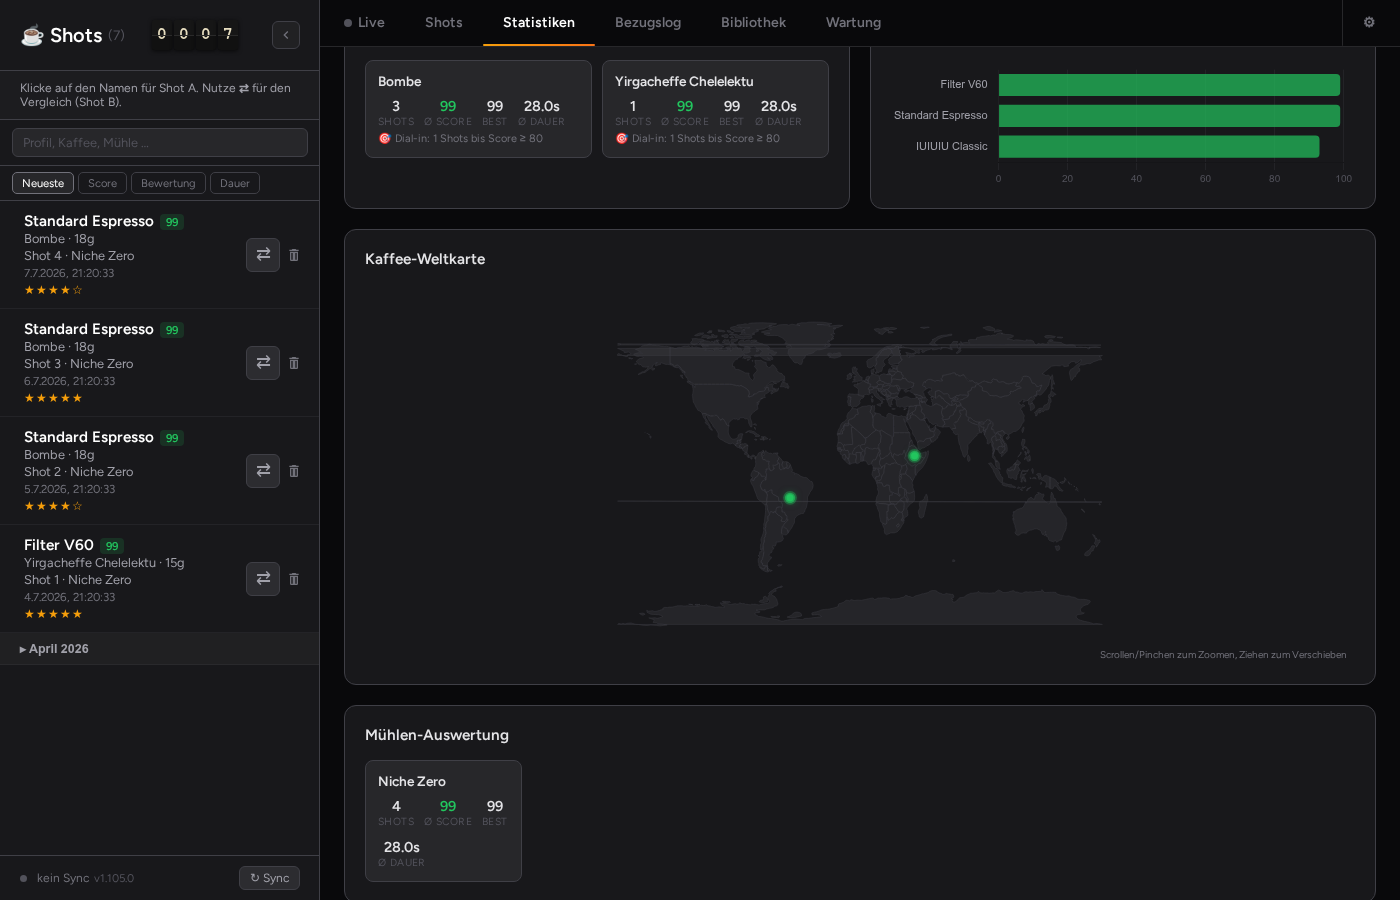
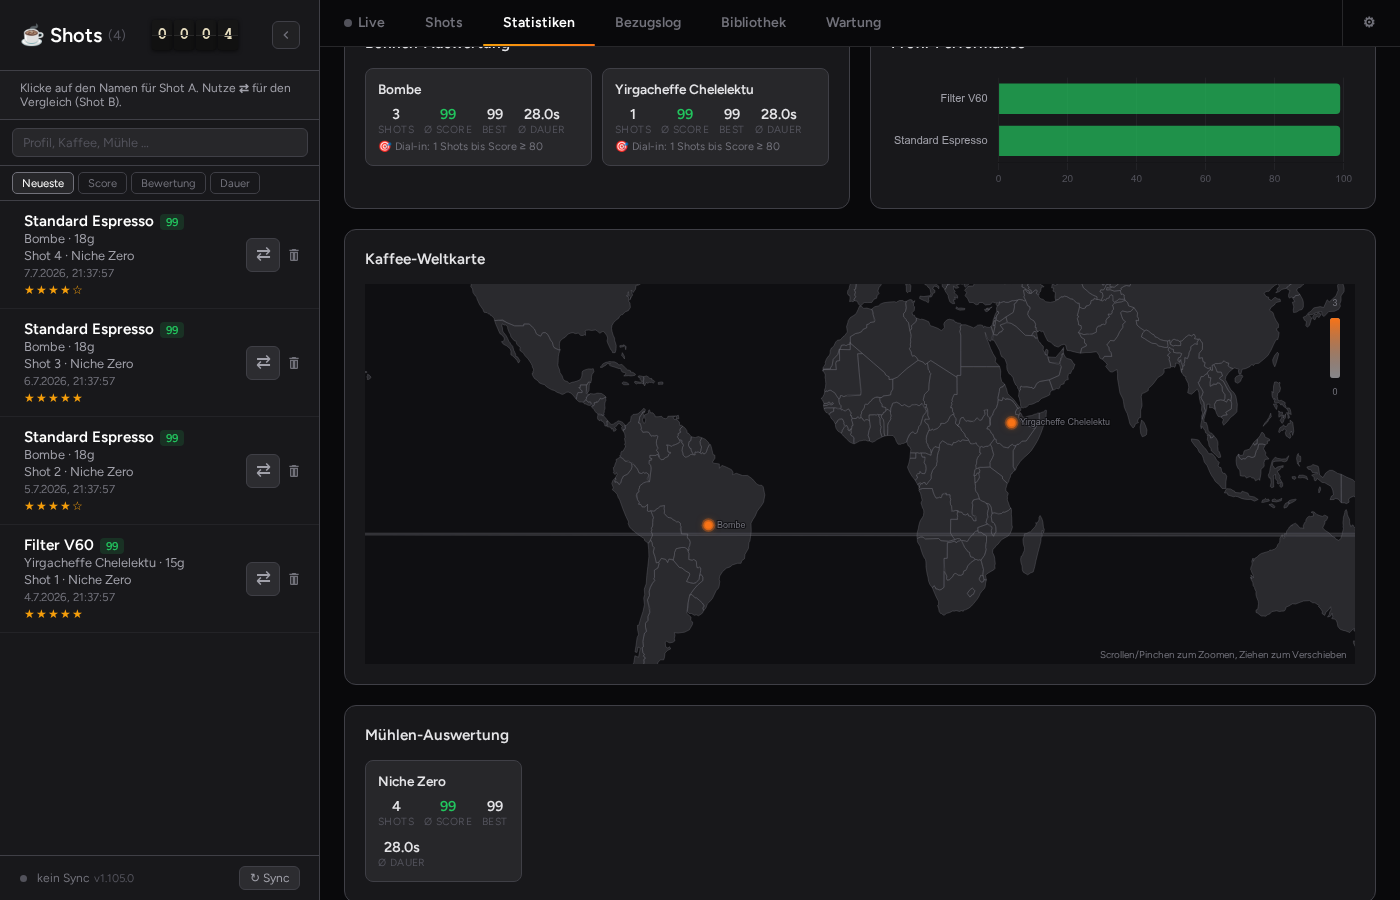
feat: redesign Coffee World Map visual style
Replaces the generic green scatter/choropleth color with the app's
amber/orange accent (read live via getComputedStyle so it follows the
active theme/accent), shows the visualMap shot-count legend that was
previously hidden, auto-frames the initial camera on a bounding box of
the countries/points that actually have data (computeMapBoundingView(),
capped so a single country doesn't zoom in absurdly far) instead of
always showing the whole globe, adds always-visible labels on scatter
points with at least one shot, and darkens the map background so land
reads more clearly against ocean.

public-src/views/analytics.js: buildWorldMap() + new pure
computeMapBoundingView() helper + _hexToRgba() util.

Closes #278

diff --git a/gaggiuino-local-profiler/public-src/views/analytics.js b/gaggiuino-local-profiler/public-src/views/analytics.js
@@ -501,6 +501,46 @@ function _echartsAvailable() {
   return typeof echarts !== 'undefined' && typeof topojson !== 'undefined';
 }
 
+// Converts a #rrggbb (or #rgb) hex color to an rgba() string at the given
+// alpha; falls back to the raw input unchanged if it isn't hex (e.g. an
+// already-rgba CSS custom property value).
+function _hexToRgba(hex, alpha) {
+  const m = /^#?([a-f\d]{3}|[a-f\d]{6})$/i.exec(String(hex || '').trim());
+  if (!m) return hex;
+  let h = m[1];
+  if (h.length === 3) h = h.split('').map(c => c + c).join('');
+  const num = parseInt(h, 16);
+  const r = (num >> 16) & 255, g = (num >> 8) & 255, b = num & 255;
+  return `rgba(${r},${g},${b},${alpha})`;
+}
+
+// Pure helper (unit-testable): given a list of [lon, lat] coordinates with
+// data on the map, returns a { center, zoom } that frames them instead of
+// defaulting to the whole globe. `zoom` is clamped to a sane range so a
+// single country (or a single point) doesn't zoom in absurdly far, and
+// stays within the geo.scaleLimit used by buildWorldMap (max 12).
+export function computeMapBoundingView(coords) {
+  const valid = (coords || []).filter(c => Array.isArray(c) && Number.isFinite(c[0]) && Number.isFinite(c[1]));
+  if (!valid.length) return { center: undefined, zoom: 1 };
+  let minLon = Infinity, maxLon = -Infinity, minLat = Infinity, maxLat = -Infinity;
+  for (const [lon, lat] of valid) {
+    if (lon < minLon) minLon = lon;
+    if (lon > maxLon) maxLon = lon;
+    if (lat < minLat) minLat = lat;
+    if (lat > maxLat) maxLat = lat;
+  }
+  const center = [(minLon + maxLon) / 2, (minLat + maxLat) / 2];
+  const lonSpan = maxLon - minLon;
+  const latSpan = maxLat - minLat;
+  // Latitude degrees read visually "taller" than longitude degrees on an
+  // equirectangular-ish projection, so weight them more when picking the
+  // limiting axis; floor the span so a single point still gets some padding.
+  const span = Math.max(lonSpan, latSpan * 1.8, 8);
+  const padded = span * 1.6;
+  const zoom = Math.min(6, Math.max(1, 360 / padded));
+  return { center, zoom };
+}
+
 export async function buildWorldMap() {
   const wrap = document.getElementById('worldMapWrap');
   if (!wrap) return;
@@ -610,14 +650,32 @@ export async function buildWorldMap() {
     const shots = byCode[primaryCode]?.beans.has(bean.name)
       ? S.shots.filter(s => String(s.annotation?.coffee || '').toLowerCase() === bean.name.toLowerCase()).length
       : 0;
-    points.push({ name: bean.name, value: [...coord, shots], _region: bean.region || null });
+    // Always-visible label for beans that actually have shots logged (kept
+    // off for zero-shot points so the map doesn't get cluttered with beans
+    // that are only sitting in the Library with an origin set).
+    const label = shots > 0
+      ? { show: true, formatter: '{b}', position: 'right', distance: 5, fontSize: 9, fontWeight: 500 }
+      : undefined;
+    points.push({ name: bean.name, value: [...coord, shots], _region: bean.region || null, label });
   }
+
+  // Brand colors, read live from the CSS custom properties so the map
+  // follows whichever accent/theme the user has picked (not just amber).
+  const cs = getComputedStyle(document.documentElement);
+  const accentTo = (cs.getPropertyValue('--accent-to') || '#f97316').trim() || '#f97316';
+  const mutedText = (cs.getPropertyValue('--gray-500') || '#71717a').trim() || '#71717a';
 
   const container = wrap.querySelector('.world-map-canvas');
   if (!_echartsInstance) _echartsInstance = echarts.init(container);
 
+  const boundingCoords = [
+    ...Object.keys(byCode).map(code => COUNTRY_CENTROIDS[code]).filter(Boolean),
+    ...points.map(p => [p.value[0], p.value[1]]),
+  ];
+  const { center, zoom } = computeMapBoundingView(boundingCoords);
+
   _echartsInstance.setOption({
-    backgroundColor: 'transparent',
+    backgroundColor: 'rgba(9,9,11,.55)',
     tooltip: {
       formatter: (params) => {
         if (params.seriesType === 'map') {
@@ -638,28 +696,32 @@ export async function buildWorldMap() {
       },
     },
     geo: {
-      map: 'world', roam: true, scaleLimit: { min: 1, max: 12 },
-      itemStyle: { areaColor: 'rgba(63,63,70,.35)', borderColor: 'rgba(63,63,70,.8)', borderWidth: 0.5 },
-      emphasis: { itemStyle: { areaColor: 'rgba(63,63,70,.55)' }, label: { show: false } },
+      map: 'world', roam: true, scaleLimit: { min: 1, max: 12 }, center, zoom,
+      itemStyle: { areaColor: 'rgba(82,82,91,.4)', borderColor: 'rgba(113,113,122,.7)', borderWidth: 0.5 },
+      emphasis: { itemStyle: { areaColor: 'rgba(82,82,91,.6)' }, label: { show: false } },
     },
     series: [
       {
         type: 'map', map: 'world', geoIndex: 0,
         data: mapData,
-        itemStyle: { borderColor: 'rgba(63,63,70,.8)', borderWidth: 0.5 },
+        itemStyle: { borderColor: 'rgba(113,113,122,.7)', borderWidth: 0.5 },
         emphasis: { label: { show: false } },
       },
       {
         type: 'effectScatter', coordinateSystem: 'geo',
         data: points,
         symbolSize: 7,
-        itemStyle: { color: '#22c55e', shadowBlur: 8, shadowColor: 'rgba(34,197,94,.6)' },
+        itemStyle: { color: accentTo, shadowBlur: 8, shadowColor: _hexToRgba(accentTo, .6) },
+        label: { show: false, color: mutedText, textBorderColor: 'rgba(9,9,11,.7)', textBorderWidth: 2 },
         rippleEffect: { scale: 2.5 },
       },
     ],
     visualMap: {
-      show: false, seriesIndex: 0, min: 0, max: maxShots,
-      inRange: { color: ['rgba(63,63,70,.35)', 'rgba(34,197,94,.85)'] },
+      show: true, seriesIndex: 0, min: 0, max: maxShots,
+      right: 10, top: 10, itemWidth: 10, itemHeight: 60,
+      text: [String(maxShots), '0'],
+      textStyle: { color: mutedText, fontSize: 9 },
+      inRange: { color: ['rgba(82,82,91,.4)', accentTo] },
     },
   }, true);
 

diff --git a/gaggiuino-local-profiler/CHANGELOG.md b/gaggiuino-local-profiler/CHANGELOG.md
@@ -1,3 +1,8 @@
+## Unreleased
+
+### Changed
+- **Coffee World Map visual redesign.** The Analytics world map used a generic green instead of the app's amber/orange accent, always framed the entire globe even when bean data was clustered in a couple of regions, hid the shot-count color legend, and only showed bean info on hover. Now reads `--accent-from`/`--accent-to` live via `getComputedStyle` for scatter points and the choropleth gradient (so it follows whichever theme/accent color is active), shows the `visualMap` legend styled for the dark UI, auto-frames the initial camera on a bounding box computed from the countries/points that actually have data (`computeMapBoundingView()`, capped so a single country doesn't zoom in absurdly far; `roam: true` still lets you pan/zoom manually afterward), always-visible labels on scatter points that have at least one shot logged, and a darker map background so land reads more clearly against ocean. `public-src/views/analytics.js`. Closes #278
+
 ## [1.105.0] – 2026-07-07
 
 ### Added

diff --git a/gaggiuino-local-profiler/DOCS.de.md b/gaggiuino-local-profiler/DOCS.de.md
@@ -130,7 +130,7 @@ curl http://<gaggiuino-ip>/api/shots/latest
 |---|---|
 | **Live** | Echtzeit-Charts für Druck, Flow, Gewicht und Temperatur während eines Shots. Beim Start eines Bezugs wird automatisch der letzte Shot mit demselben Profil als gestrichelte Referenzkurve eingeblendet. Kann über das Dropdown überschrieben oder entfernt werden. Der Tab ist nur sichtbar wenn die Maschine eingeschaltet ist (erfordert `switch_entity`). |
 | **Shots** | Shot-Verlauf mit vollständigem Chart, Score, Annotation (**Kaffee-Dropdown** aus der Bibliothek, Mühle, Dosis, Notizen, **Getränktyp**, **Bohnenalter beim Shot**) und Vollbild-Chart. Bei Sortierung nach "Neueste" werden Shots älter als der aktuelle Monat in der Sidebar zu monatsweisen, aufklappbaren Abschnitten zusammengefasst — der aktuelle Monat bleibt immer eine flache Liste. Das Kaffeefeld ist ein Dropdown, das aus der Bohnenbibliothek befüllt wird — eigene Einträge die nicht in der Bibliothek sind bleiben erhalten. Annotationsfelder werden **automatisch gespeichert** 1 Sekunde nach der letzten Eingabe. Wenn eine bekannte Bohne ausgewählt wird, wird das Alter der Bohne zum Zeitpunkt des Shots automatisch aus dem Röstdatum der aktiven Packung berechnet und in der Annotation gespeichert. Getränkoptionen kommen aus demselben Menü wie das Bestellsystem. Ein **Teilen**-Button in der Toolbar öffnet eine Formatauswahl und exportiert den Shot als PNG-Karte — zwei Formate: **Quadrat (1:1)** 1080×1080 für Feed-Posts, **Story (9:16)** 1080×1920 für Instagram Stories. Nutzt die native Web Share API auf Mobilgeräten, fällt auf Desktop auf Download zurück. Karten-Layout: schwarz/weißes Theme, GLP-Logo im Header mit Shot-ID und Datum, Profilname, Bohne, Dosis → Yield · Ratio · Dauer, Phasen-Chips (Preinfusion / Extraktion in Blau/Orange) über dem vollständigen Datenchart mit Legende, zweispaltiger Stats-Bereich (DRUCK, PUMPENFLUSS, TEMPERATUR links; GEWICHT, GEWICHTSFLUSS, DAUER, DOSIS → YIELD · RATIO rechts), Score-Badge. |
-| **Analytics** | Aggregierte Statistiken über alle Shots: **Übersicht-KPIs** (Shots gesamt, Ø Score, Kaffee gesamt, Shots diese Woche, längste tägliche Streak), **Persönliche Bestleistungen** (bester Shot mit direktem Link, längste Streak, Lieblingsbohne/-profil, aktivster Tag), **Score-Trend**-Chart (30 / 90 / alle), **Shot-Kalender**-Heatmap, **Bohnen-Auswertung**, **Profil-Performance**-Balkendiagramm, **Mühlen-Auswertung**, **Kaffee-Weltkarte** (interaktiv: Scrollen/Pinchen zum Zoomen, Ziehen zum Verschieben — Choropleth der Bohnen-Herkunftsländer nach Shot-Anzahl eingefärbt, bei Blends anteilig auf alle Herkunftsländer aufgeteilt, plus ein pulsierender Punkt pro Bohne an der geocodeten Anbau-Region oder ersatzweise am Länder-Mittelpunkt, Tooltips mit Flagge + lokalisiertem Ländernamen), **Dosis & Ratio-Verteilung** als Histogramme, **Tageszeit**-Balkendiagramm nach Ø Score eingefärbt. |
+| **Analytics** | Aggregierte Statistiken über alle Shots: **Übersicht-KPIs** (Shots gesamt, Ø Score, Kaffee gesamt, Shots diese Woche, längste tägliche Streak), **Persönliche Bestleistungen** (bester Shot mit direktem Link, längste Streak, Lieblingsbohne/-profil, aktivster Tag), **Score-Trend**-Chart (30 / 90 / alle), **Shot-Kalender**-Heatmap, **Bohnen-Auswertung**, **Profil-Performance**-Balkendiagramm, **Mühlen-Auswertung**, **Kaffee-Weltkarte** (interaktiv: Scrollen/Pinchen zum Zoomen, Ziehen zum Verschieben — Choropleth der Bohnen-Herkunftsländer nach Shot-Anzahl im Akzentfarbverlauf der App eingefärbt, mit Farbskalen-Legende, Ansicht startet automatisch auf die Länder/Bohnen mit tatsächlichen Daten fokussiert statt auf die ganze Welt, bei Blends anteilig auf alle Herkunftsländer aufgeteilt, plus ein pulsierender Punkt pro Bohne an der geocodeten Anbau-Region oder ersatzweise am Länder-Mittelpunkt mit dauerhaft sichtbarem Label sobald mindestens ein Shot erfasst ist, Tooltips mit Flagge + lokalisiertem Ländernamen), **Dosis & Ratio-Verteilung** als Histogramme, **Tageszeit**-Balkendiagramm nach Ø Score eingefärbt. |
 | **Bibliothek** | Kaffeebohnen- und Mühlenkatalog plus **Rezepte**-Tab. Bohnenkarten zeigen eine **Sterne-Bewertung** (Mittelwert aus den Shot-Bewertungen dieser Bohne, rein berechnet — kein manuelles Feld) und ein **Röstfrische-Badge** (Tage seit Röstung, eingefärbt nach Degassing-/Peak-/Fading-Fenster, aus dem Röstdatum der aktiven Packung — ausgeblendet sobald der Restbestand einer bestandsgeführten Bohne null erreicht). Bohnen unterstützen: **Herkunftsländer** (eines oder mehrere, aus einer Liste von Kaffeeanbauländern ausgewählt und als Chips mit Flagge und lokalisiertem Namen angezeigt — eine Bohne mit mehr als einem Herkunftsland ist ein Blend, mit optionalem prozentualem Gewichtungsanteil pro Land für die anteilige Aufteilung auf der Kaffee-Weltkarte in Statistiken), **Varietät** (Arabica, Robusta, Geisha, … mit Vorschlägen), **Aufbereitung** (Washed, Natural, Honey, Anaerobic, … mit Vorschlägen), **Geschmacksnoten als Tags** (Chips-Eingabe; Importe befüllen sie automatisch, das Notizfeld bleibt für persönliche Anmerkungen — siehe auch das **Aroma-Rad** unten), **Röstung** (Espresso / Filter / Omni, aus Shop-Tags importiert), **Anbau-Region** (Freitext, serverseitig via Nominatim zu Kartenkoordinaten geocodet), ein beim Import einmalig heruntergeladenes **Produktbild** (als Thumbnail und im Aroma-Rad angezeigt) — oder manuell hochgeladen, falls der automatische Download fehlschlägt, optionale Felder für **Höhenlage, Importeur, Ernte, Preis, Produzent und Zertifizierung** (nur angezeigt wenn gesetzt; Höhenlage/Importeur/Ernte/Preis werden importiert, wo der Shop sie liefert), eine manuelle **Zubereitungsempfehlung** (Temperatur, Verhältnis, Zeit, Hinweis — nur angezeigt wenn gesetzt; keine Import-Quelle liefert das als strukturierte Daten), Entkoffeiniert-Flag, Chargen-Tracking (Röstdatum + Anfangsgewicht pro Packung, Verbrauch pro Packung und Gesamtverbrauch über alle Packungen), URL-Import von kaffeebraun.com, hoppenworth-ploch.de und elbgold.com (jeweils einzeln deaktivierbar) plus generischem Fallback (Shopify/JSON-LD/Webseiten-Metadaten) für jeden anderen Shop, mit Einstellungen-Panel für eigene Shopify-Shop-Domains, Barcode-Scan, QR-Code. Mühlen unterstützen optional **Mahlwerk-Typ** (mit Vorschlägen), **Kaufdatum** und ein direkt hochgeladenes **Foto**. Rezepte speichern Brühmethode (Espresso, AeroPress, V60, French Press, Moka, Cold Brew), Dosis, Ausbeute, Zeit, Wassertemperatur, Wassermenge, Eismenge, Mahlgrad, Quellenlink und Workflow-Schritte. |
 | **Einwählen** | Einwähl-Assistent: Ziel-Shot mit aktuellen Versuchen vergleichen. Der Mahlgrad-Hinweis in der Shot-Ansicht markiert zusätzlich Brew-Ratios außerhalb des klassischen Espresso-Fensters (1:1.8–2.2), wenn die Dauer selbst passt. |
 | **Wartung** | Fünf Maschinenwartungs-Erinnerungen (Entkalken, Backflush, Gruppenköpf-Service, Dichtungen & Siebe, Wasserfilter) plus ein eigener Reinigungsplan pro Mühle. Alle Aufgaben haben konfigurierbare Shot- oder Tages-Schwellenwerte, Fortschrittsbalken und „Jetzt erledigt"-Button. Backflush und Entkalken bieten zusätzlich eine **geführte Anleitung**: eine Schritt-für-Schritt-Checkliste, die den Erledigt-Button erst freischaltet, wenn alle Schritte abgehakt sind, und die Aufgabe dann protokolliert. Unterhalb der Karten: ein **Wartungsprotokoll**, das jeden Servicevorgang aufzeichnet — Datum, Aufgabe, Shot-Anzahl zum Zeitpunkt und Maschinenname. Einträge entstehen automatisch beim „Jetzt erledigt"-Klick; vergangene Wartungen können per Formular (Aufgabe, Datum, Notizen) nachgetragen werden. Einzelne Einträge sind löschbar. Gespeichert in `/data/maintenance_log.json`. |

diff --git a/gaggiuino-local-profiler/DOCS.md b/gaggiuino-local-profiler/DOCS.md
@@ -130,7 +130,7 @@ curl http://<gaggiuino-ip>/api/shots/latest
 |---|---|
 | **Live** | Real-time pressure, flow, weight and temperature charts during a shot. When a brew starts, the most recent shot with the same profile name is automatically overlaid as a dashed reference curve. Can be overridden or cleared via the dropdown. The tab is only visible when the machine is on (requires `switch_entity`). |
 | **Shots** | Shot history with full chart view, score, annotation (**coffee dropdown** from library, grinder, dose, notes, **drink type**, **bean age at shot time**) and a fullscreen chart. When sorted by "Newest", shots older than the current month collapse into per-month sections in the sidebar (click to expand) — the current month always stays a flat list. The coffee field is a dropdown populated from your bean library — custom entries not in the library are preserved. Annotation fields **auto-save** 1 s after the last keystroke. When a known bean is selected, the bean's age at shot time is calculated automatically from the active bag's roast date and stored in the annotation. Drink type options are loaded from the same menu used by the orders feature. A **Share** button in the toolbar opens a format picker and exports the shot as a PNG card — two formats available: **Square (1:1)** 1080×1080 for feed posts, **Story (9:16)** 1080×1920 for Instagram Stories. Uses the native Web Share API on mobile, falls back to download on desktop. Card layout: black/white theme, GLP logo in header with shot ID and date, profile name, bean, dose → yield · ratio · duration, phase chips (Preinfusion / Extraktion in blue/orange) above the full-data chart with legend, two-column stats (DRUCK, PUMPENFLUSS, TEMPERATUR on the left; GEWICHT, GEWICHTSFLUSS, DAUER, DOSIS → YIELD · RATIO on the right), score badge. |
-| **Analytics** | Aggregated statistics across all shots: **Summary KPIs** (total shots, avg score, total coffee consumed, shots this week, longest daily streak), **Personal Bests** (best shot linked directly, longest streak, favourite bean/profile, busiest day), **Score Trend** chart (30 / 90 / all), **Shot Calendar** heatmap, **Bean Stats** cards, **Profile Performance** bar chart, **Grinder Stats** cards, **Coffee World Map** (interactive: scroll/pinch to zoom, drag to pan — choropleth of bean origin countries colored by shot count, a blend's shots split proportionally across its origin countries, plus a pulsing point per bean at its geocoded growing region or a country fallback, flag + localized country name tooltips), **Dose & Ratio Distribution** histograms, **Time of Day** bar chart coloured by avg score. |
+| **Analytics** | Aggregated statistics across all shots: **Summary KPIs** (total shots, avg score, total coffee consumed, shots this week, longest daily streak), **Personal Bests** (best shot linked directly, longest streak, favourite bean/profile, busiest day), **Score Trend** chart (30 / 90 / all), **Shot Calendar** heatmap, **Bean Stats** cards, **Profile Performance** bar chart, **Grinder Stats** cards, **Coffee World Map** (interactive: scroll/pinch to zoom, drag to pan — choropleth of bean origin countries colored by shot count on the app's accent gradient with a color-scale legend, initial view auto-framed on the countries/beans that actually have data instead of the whole globe, a blend's shots split proportionally across its origin countries, plus a pulsing point per bean at its geocoded growing region or a country fallback with an always-visible label once it has at least one shot, flag + localized country name tooltips), **Dose & Ratio Distribution** histograms, **Time of Day** bar chart coloured by avg score. |
 | **Library** | Coffee bean and grinder catalogue plus a **Recipes** tab. Bean cards show a **star rating** (average of that bean's shot ratings, purely computed — no manual field) and a **roast freshness badge** (days since roast, colored by degassing/peak/fading window, from the active bag's roast date — hidden once a stock-tracked bean's remaining stock hits zero). Beans support: **origin countries** (one or more, picked from a list of coffee-growing countries and shown as chips with flag and localized name — a bean with more than one origin is a blend, with an optional per-country weighting percent used to split its shots proportionally on the Analytics world map), **variety** (Arabica, Robusta, Geisha, … with suggestions), **processing** (Washed, Natural, Honey, Anaerobic, … with suggestions), **tasting notes as tags** (chips input; imports fill them automatically, notes stays free for personal remarks — see also the **flavor wheel** below), **roast profile** (espresso / filter / omni, imported from shop tags), **growing region** (free text, geocoded server-side via Nominatim into map coordinates), a **product image** downloaded once from the shop on import (shown as a thumbnail and in the flavor wheel) — or uploaded manually if the automatic download fails, optional **altitude, importer, harvest, price, producer and certification** fields (shown only when set; altitude/importer/harvest/price are imported where the shop provides them), a manual **brew recommendation** (temperature, ratio, time, note — shown only when set; no import source provides this as structured data), decaf flag, bag/batch tracking (roast date + initial weight per bag, consumption tracked per bag and total across all bags), URL import from kaffeebraun.com, hoppenworth-ploch.de and elbgold.com (each individually toggleable) plus a generic fallback (Shopify/JSON-LD/webpage metadata) for any other shop, with a settings panel to add your own Shopify shop domains, barcode scan, QR code. Grinders support an optional **burr type** (with suggestions), **purchase date** and a directly-uploaded **photo**. Recipes store brew method (Espresso, AeroPress, V60, French Press, Moka, Cold Brew), dose, yield, time, water temperature, water amount, ice amount, grind size, source URL and step-by-step workflow. |
 | **Dial-in** | Dial-in assistant: compare a target shot with recent attempts. The shot view's grind advice additionally flags brew ratios outside the classic espresso window (1:1.8–2.2) when the duration itself is fine. |
 | **Maintenance** | Five machine maintenance reminders (descaling, backflush, group head service, gaskets & screens, water filter) plus a per-grinder cleaning schedule. All tasks have configurable shot or day thresholds, progress bars and a "Done now" button. Backflush and descaling additionally offer a **guided walkthrough**: a step-by-step checklist that unlocks the done button once every step is ticked and then logs the task. Below the cards: a **Maintenance Log** that records every service event — date, task, shot count at time and machine hostname. Entries are created automatically when marking a task done; past events can be back-filled via the "Add entry" form (task, date, notes). Each entry can be deleted. Stored in `/data/maintenance_log.json`. |